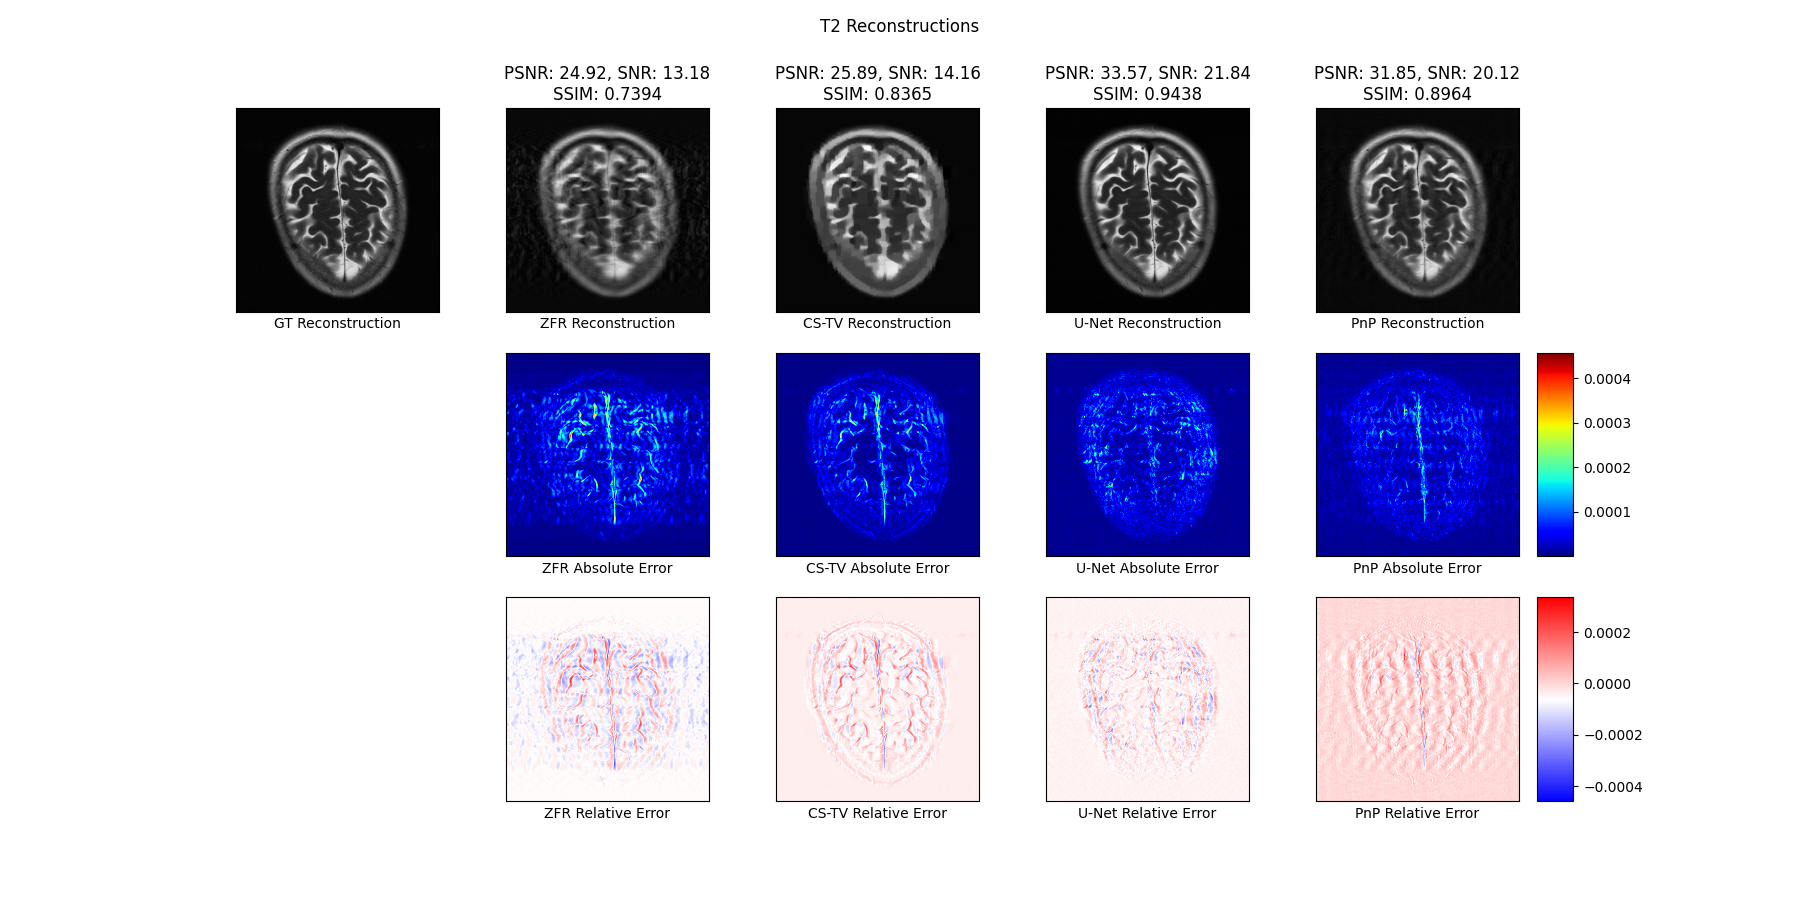
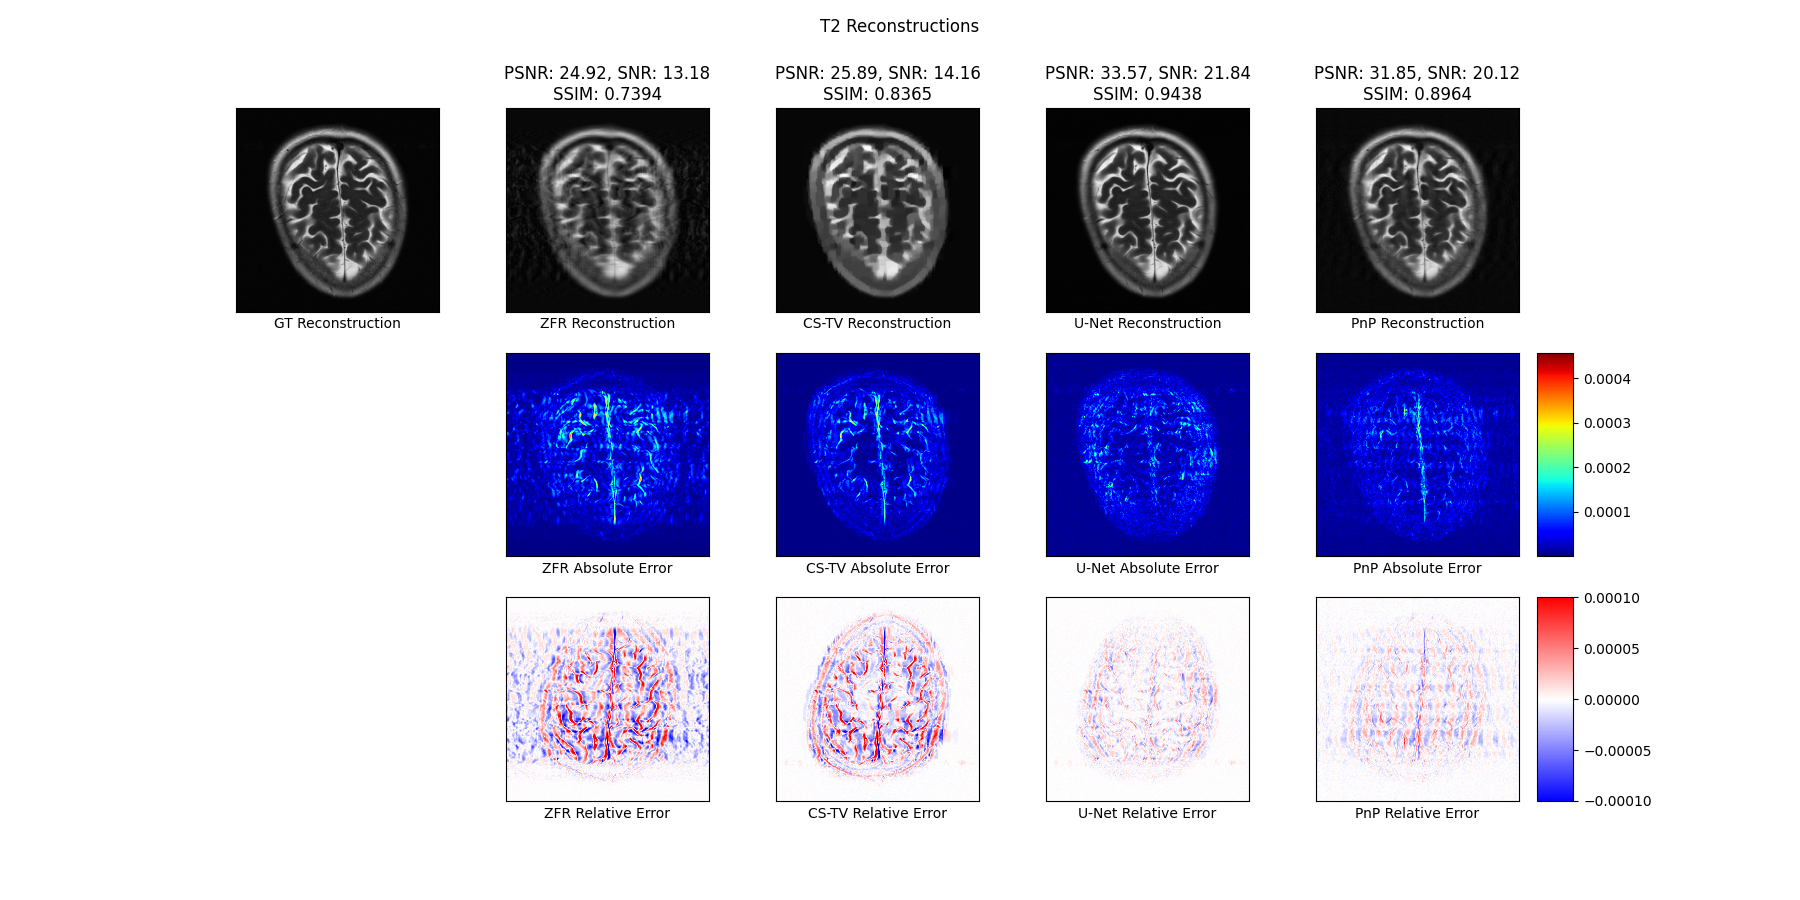
fixed plots

diff --git a/generate_plots.py b/generate_plots.py
@@ -47,8 +47,10 @@ def generate_error_map(fig, target, recon, method, image_ind, relative=False, k=
     # Normalize error between target and reconstruction
     error = (target - recon) if relative else np.abs(target - recon)
     #normalized_error = error / error.max() if not relative else error
-
-    im = ax.imshow(k * error, cmap='bwr' if relative else 'jet') # Plot image
+    if relative:
+        im = ax.imshow(k * error, cmap='bwr', origin='lower', vmin=-0.0001, vmax=0.0001) # Plot image
+    else:
+        im = ax.imshow(k * error, cmap='jet') # Plot image
 
     # Remove axis ticks
     ax.set_xticks([])
@@ -122,10 +124,10 @@ for fname in tqdm(list(data_dir.glob("*.h5"))):
         im, ax = generate_error_map(fig, target, pnp_im, 'PnP', 10)
         get_colorbar(fig, im, ax)
 
-        generate_error_map(fig, target, zfr, 'ZFR', 12, relative=True)
-        generate_error_map(fig, target, recons, 'CS-TV', 13, relative=True)
-        generate_error_map(fig, target, unet_im, 'U-Net', 14, relative=True)
-        im, ax = generate_error_map(fig, target, pnp_im, 'PnP', 15, relative=True)
+        generate_error_map(fig, target, zfr, 'ZFR', 12, relative=True, k=1)
+        generate_error_map(fig, target, recons, 'CS-TV', 13, relative=True, k=1)
+        generate_error_map(fig, target, unet_im, 'U-Net', 14, relative=True, k=1)
+        im, ax = generate_error_map(fig, target, pnp_im, 'PnP', 15, relative=True, k=1)
         get_colorbar(fig, im, ax)
 
         plt.savefig(f'/home/bendel.8/Git_Repos/ComparisonStudy/plots/images/recons_{count}.png')
